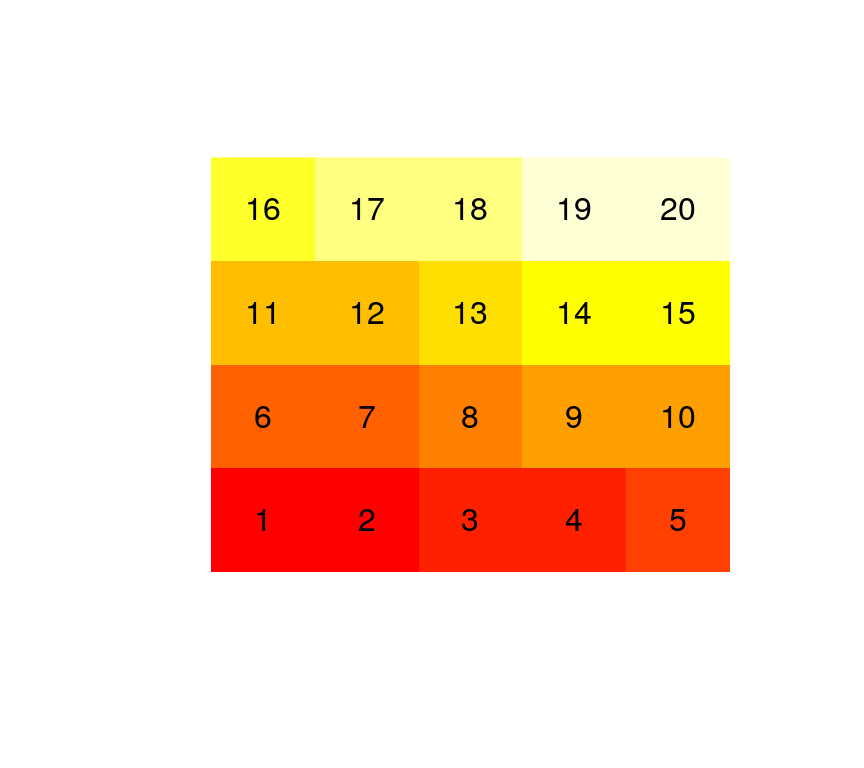
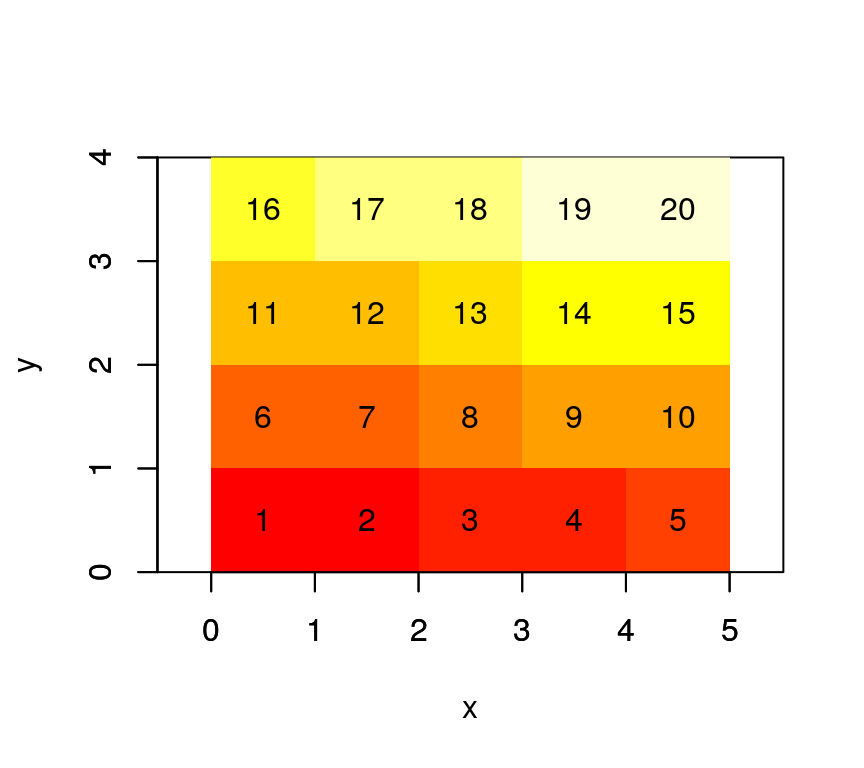
docs

diff --git a/docs/articles/data_model.html b/docs/articles/data_model.html
@@ -125,14 +125,14 @@ m =<span class="st"> </span><span class="kw">matrix</span>(<span class="dv">1</s
 <li>offset and delta specify how increasing row/column index maps to x and y coordinate values</li>
 </ul>
 <p>When we plot this object, using the <code>image</code> method for <code>stars</code> objects, we see</p>
-<div class="sourceCode"><pre class="sourceCode r"><code class="sourceCode r"><span class="kw">image</span>(s, <span class="dt">text_values =</span> <span class="ot">TRUE</span>)</code></pre></div>
+<div class="sourceCode"><pre class="sourceCode r"><code class="sourceCode r"><span class="kw">image</span>(s, <span class="dt">text_values =</span> <span class="ot">TRUE</span>, <span class="dt">axes =</span> <span class="ot">TRUE</span>)</code></pre></div>
 <p><img src="data_model_files/figure-html/unnamed-chunk-3-1.png" width="432"></p>
 <p>Where it becomes clear that <span class="math inline">\((0,0)\)</span> is the origin of the grid (grid corner), and <span class="math inline">\(1\)</span> the coordinate value increase from one index (row, col) to the next. It means that consecutive matrix columns represent grid lines, going from south to north. Grids defined this way are <strong>regular</strong>: grid cell size is constant everywhere.</p>
 <p>Most grid data comes with y coordinates (grid rows) going from North to South (top to bottom); this is established using a negative <code>delta</code>. We see that the grid origing <span class="math inline">\((0,0)\)</span> did not change:</p>
 <div class="sourceCode"><pre class="sourceCode r"><code class="sourceCode r"><span class="kw">attr</span>(s, <span class="st">"dimensions"</span>)<span class="op">$</span>y<span class="op">$</span>delta =<span class="st"> </span><span class="dv">-1</span>
 <span class="kw">attr</span>(s, <span class="st">"dimensions"</span>)<span class="op">$</span>x<span class="op">$</span>geotransform[<span class="dv">6</span>] =<span class="st"> </span><span class="dv">-1</span>
 <span class="kw">attr</span>(s, <span class="st">"dimensions"</span>)<span class="op">$</span>y<span class="op">$</span>geotransform[<span class="dv">6</span>] =<span class="st"> </span><span class="dv">-1</span>
-<span class="kw">image</span>(s, <span class="dt">text_values =</span> <span class="ot">TRUE</span>)</code></pre></div>
+<span class="kw">image</span>(s, <span class="dt">text_values =</span> <span class="ot">TRUE</span>, <span class="dt">axes =</span> <span class="ot">TRUE</span>)</code></pre></div>
 <p><img src="data_model_files/figure-html/unnamed-chunk-4-1.png" width="432"></p>
 <p>An example is the GeoTIFF carried in the package, which has a negative <code>delta</code> for the <code>y</code>-coordinate:</p>
 <div class="sourceCode"><pre class="sourceCode r"><code class="sourceCode r">tif =<span class="st"> </span><span class="kw">system.file</span>(<span class="st">"tif/L7_ETMs.tif"</span>, <span class="dt">package =</span> <span class="st">"stars"</span>)

diff --git a/docs/reference/plot.stars.html b/docs/reference/plot.stars.html
@@ -110,7 +110,8 @@
 
     <pre class="usage"><span class='co'># S3 method for stars</span>
 <span class='fu'>plot</span>(<span class='no'>x</span>, <span class='no'>y</span>, <span class='no'>...</span>, <span class='kw'>join_zlim</span> <span class='kw'>=</span> <span class='fl'>TRUE</span>, <span class='kw'>main</span> <span class='kw'>=</span> <span class='fu'>names</span>(<span class='no'>x</span>)[<span class='fl'>1</span>],
-  <span class='kw'>axes</span> <span class='kw'>=</span> <span class='fl'>FALSE</span>, <span class='kw'>downsample</span> <span class='kw'>=</span> <span class='fl'>TRUE</span>)
+  <span class='kw'>axes</span> <span class='kw'>=</span> <span class='fl'>FALSE</span>, <span class='kw'>downsample</span> <span class='kw'>=</span> <span class='fl'>TRUE</span>, <span class='kw'>nbreaks</span> <span class='kw'>=</span> <span class='fl'>11</span>, <span class='kw'>breaks</span> <span class='kw'>=</span> <span class='st'>"quantile"</span>,
+  <span class='kw'>col</span> <span class='kw'>=</span> <span class='fu'>grey</span>(<span class='fl'>1</span>:(<span class='no'>nbreaks</span> - <span class='fl'>1</span>)/<span class='no'>nbreaks</span>))
 
 <span class='co'># S3 method for stars</span>
 <span class='fu'>image</span>(<span class='no'>x</span>, <span class='no'>...</span>, <span class='kw'>band</span> <span class='kw'>=</span> <span class='fl'>1</span>, <span class='kw'>attr</span> <span class='kw'>=</span> <span class='fl'>1</span>, <span class='kw'>asp</span> <span class='kw'>=</span> <span class='fl'>1</span>, <span class='kw'>rgb</span> <span class='kw'>=</span> <span class='kw'>NULL</span>,
@@ -148,6 +149,18 @@
     <tr>
       <th>downsample</th>
       <td><p>logical; if <code>TRUE</code> will try to plot not many more pixels than actually are visibule.</p></td>
+    </tr>
+    <tr>
+      <th>nbreaks</th>
+      <td><p>number of color breaks; should be one more than number of colors. If missing and <code>col</code> is specified, it is derived from that.</p></td>
+    </tr>
+    <tr>
+      <th>breaks</th>
+      <td><p>actual color breaks, or a method name used for <a href='http://www.rdocumentation.org/packages/classInt/topics/classIntervals'>classIntervals</a>.</p></td>
+    </tr>
+    <tr>
+      <th>col</th>
+      <td><p>colors to use for grid cells</p></td>
     </tr>
     <tr>
       <th>band</th>

diff --git a/docs/articles/first.html b/docs/articles/first.html
@@ -227,6 +227,11 @@ df =<span class="st"> </span><span class="kw">as.data.frame</span>(x)
 <span class="kw">library</span>(ggplot2)
 <span class="kw">library</span>(viridis)
 ## Loading required package: viridisLite
+## 
+## Attaching package: 'viridis'
+## The following object is masked from 'package:viridisLite':
+## 
+##     viridis.map
 <span class="kw">library</span>(ggthemes)
 <span class="kw"><a href="http://www.rdocumentation.org/packages/ggplot2/topics/ggplot">ggplot</a></span>() <span class="op">+</span><span class="st">  </span>
 <span class="st">  </span><span class="kw"><a href="http://www.rdocumentation.org/packages/ggplot2/topics/geom_tile">geom_tile</a></span>(<span class="dt">data=</span>df, <span class="kw"><a href="http://www.rdocumentation.org/packages/ggplot2/topics/aes">aes</a></span>(<span class="dt">x=</span>x, <span class="dt">y=</span>y, <span class="dt">fill=</span>value), <span class="dt">alpha=</span><span class="fl">0.8</span>) <span class="op">+</span><span class="st"> </span>

diff --git a/docs/articles/blog1.html b/docs/articles/blog1.html
@@ -309,13 +309,13 @@ traffic =<span class="st"> </span><span class="kw">array</span>(<span class="kw"
 (<span class="dt">st =</span> <span class="kw">st_stars</span>(<span class="kw">list</span>(<span class="dt">traffic =</span> traffic),  <span class="dt">dimensions =</span> dims))
 ## stars object with 5 dimensions and 1 attribute
 ## attribute(s), of first 1e+05 cells:
-##     traffic  
-##  Min.   : 0  
-##  1st Qu.: 8  
-##  Median :10  
-##  Mean   :10  
-##  3rd Qu.:12  
-##  Max.   :30  
+##     traffic      
+##  Min.   : 0.000  
+##  1st Qu.: 8.000  
+##  Median :10.000  
+##  Mean   : 9.991  
+##  3rd Qu.:12.000  
+##  Max.   :25.000  
 ## dimension(s):
 ##             from  to                    offset                     delta
 ## origin         1 100                        NA                        NA
